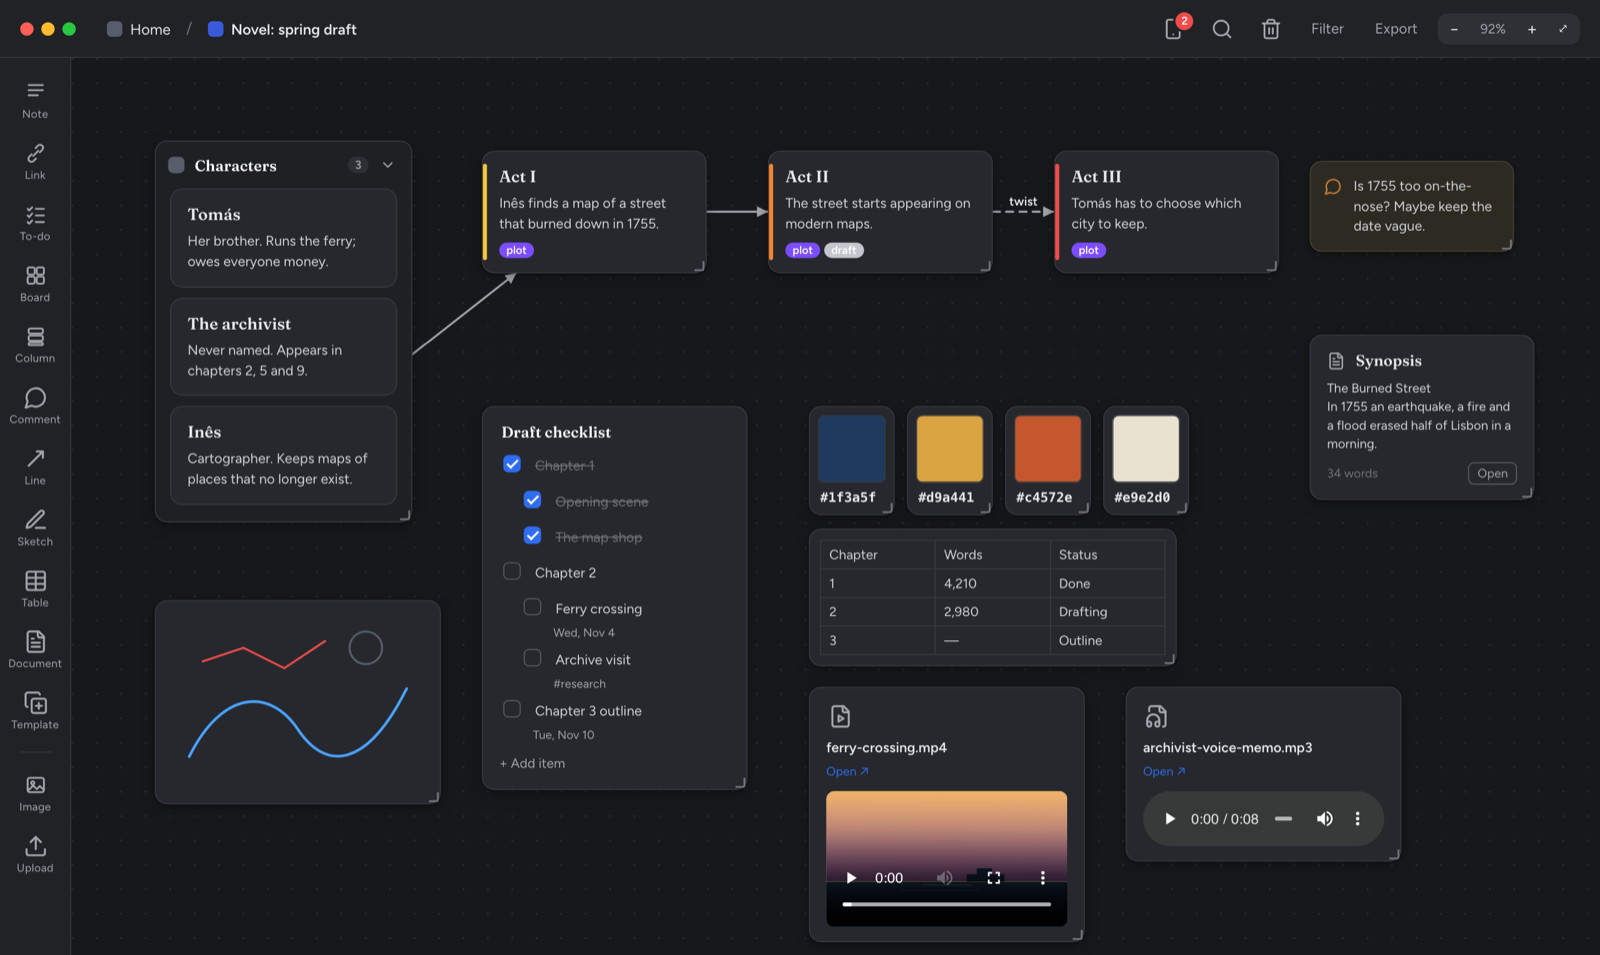
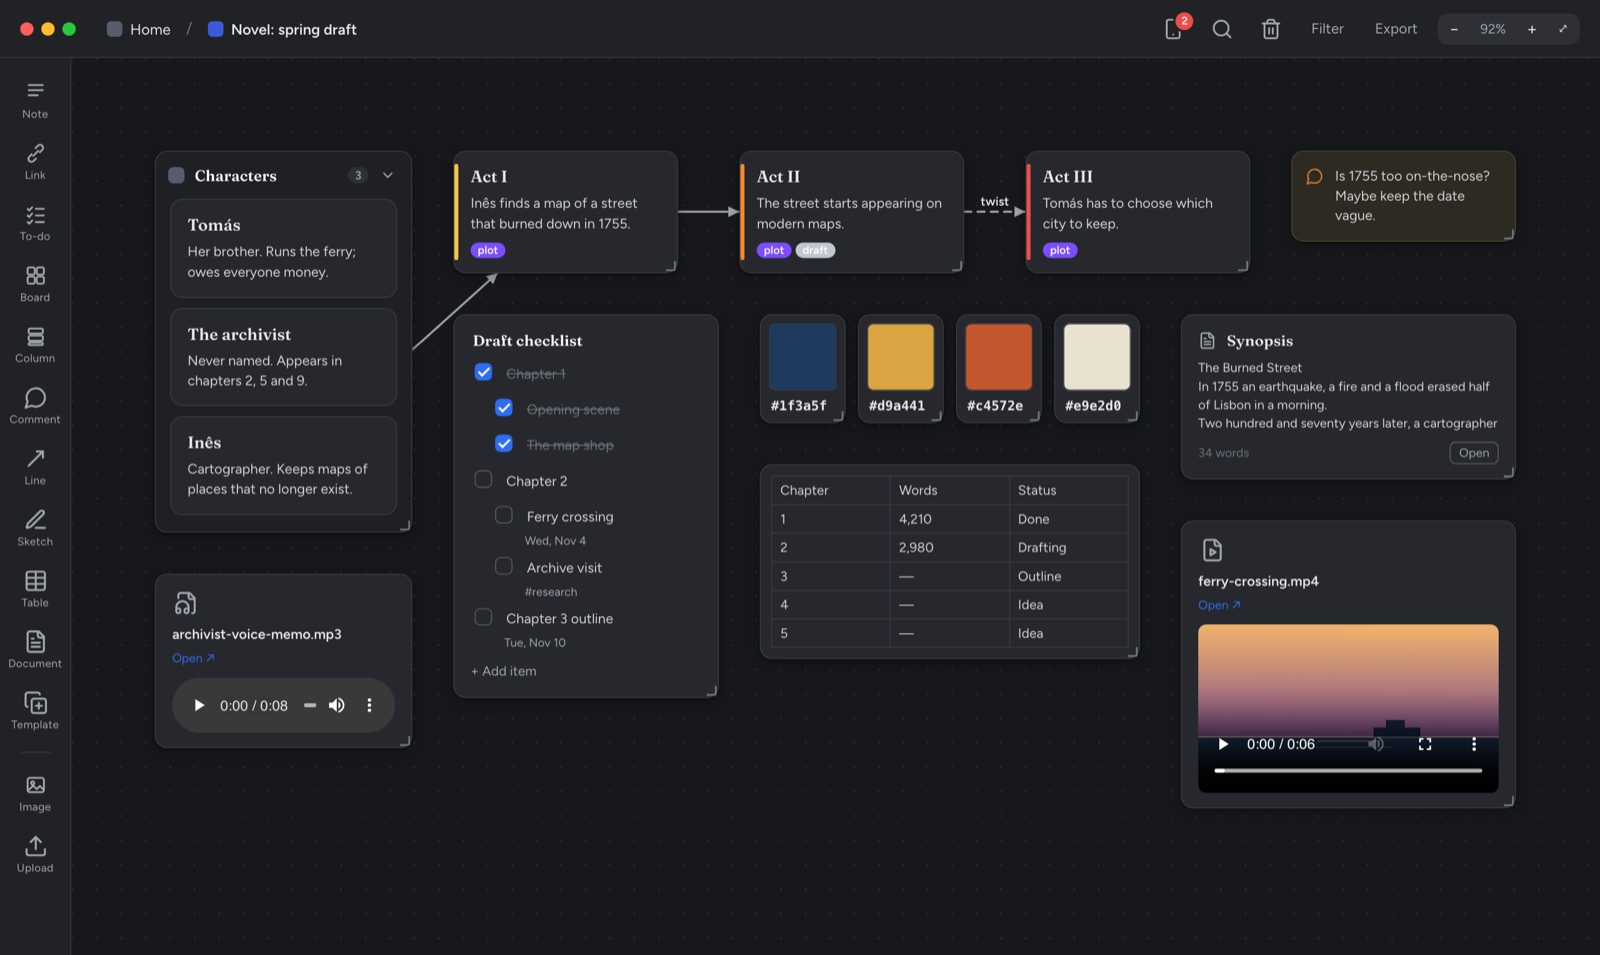
docs: re-lay the README board screenshot without the sketch (#35)
Cards sit on four columns with even 40 px gaps.

Claude-Session: https://claude.ai/code/session_01CZjKJLucXYE5kvrKhfnf48

diff --git a/README.md b/README.md
@@ -4,7 +4,7 @@ A self-hosted, Milanote-style visual board for notes, tasks, links, images and
 nested boards. It's a small Node.js app, and everything lives in one SQLite
 file you own.
 
-![A board with a column, notes joined by lines, a nested to-do list, colour swatches, a table and a sketch](docs/screenshots/board-light.png)
+![A board with a column, notes joined by lines, a nested to-do list, colour swatches, a table, a document, a video and an audio clip](docs/screenshots/board-light.png)
 
 ## Features
 
